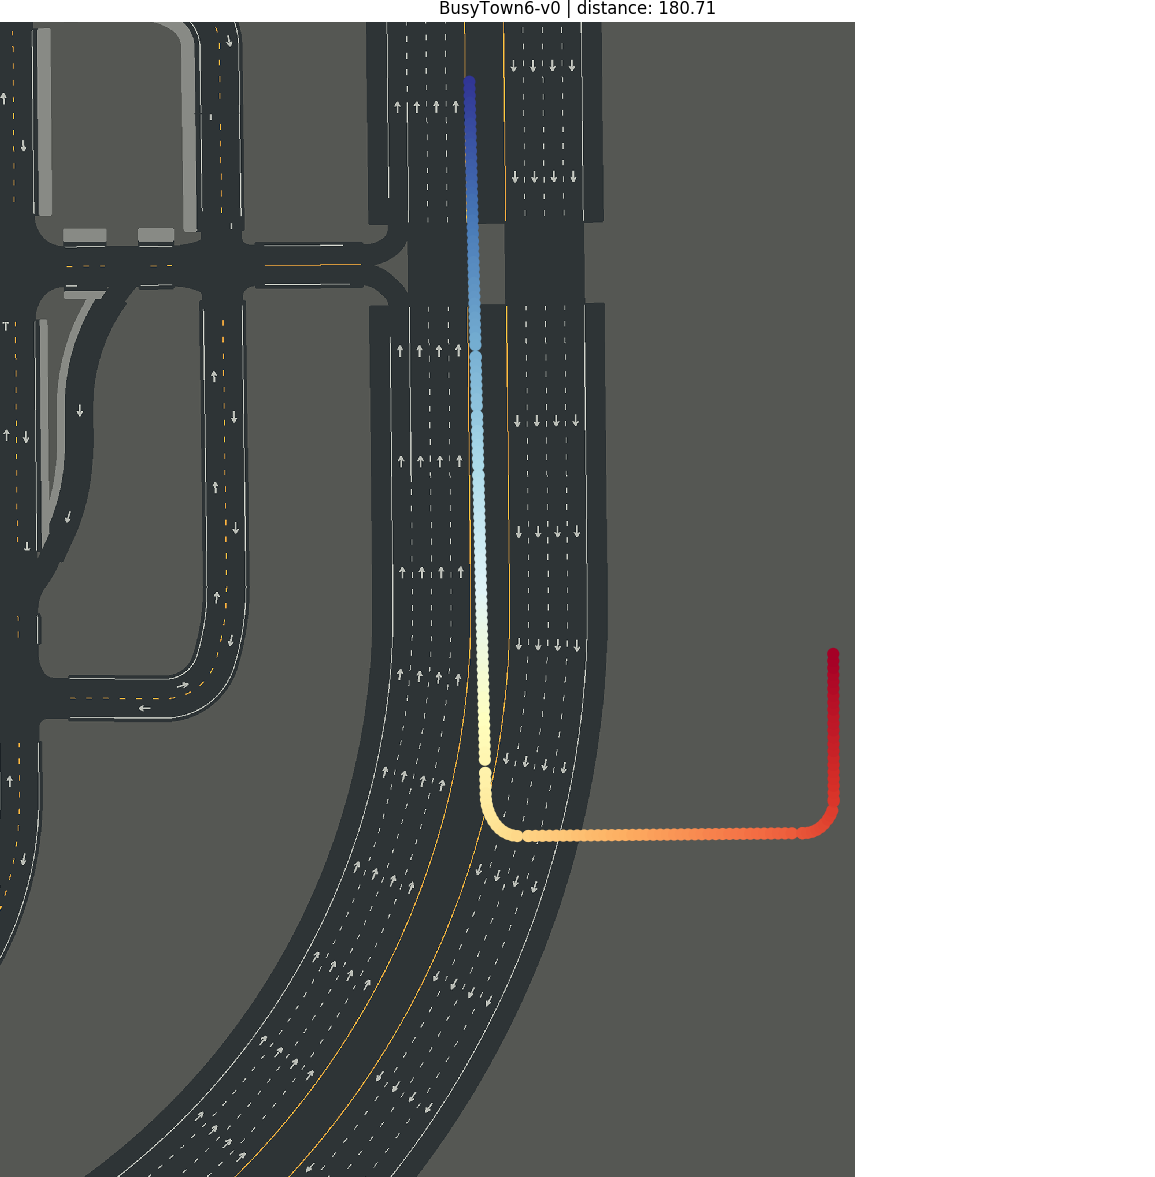
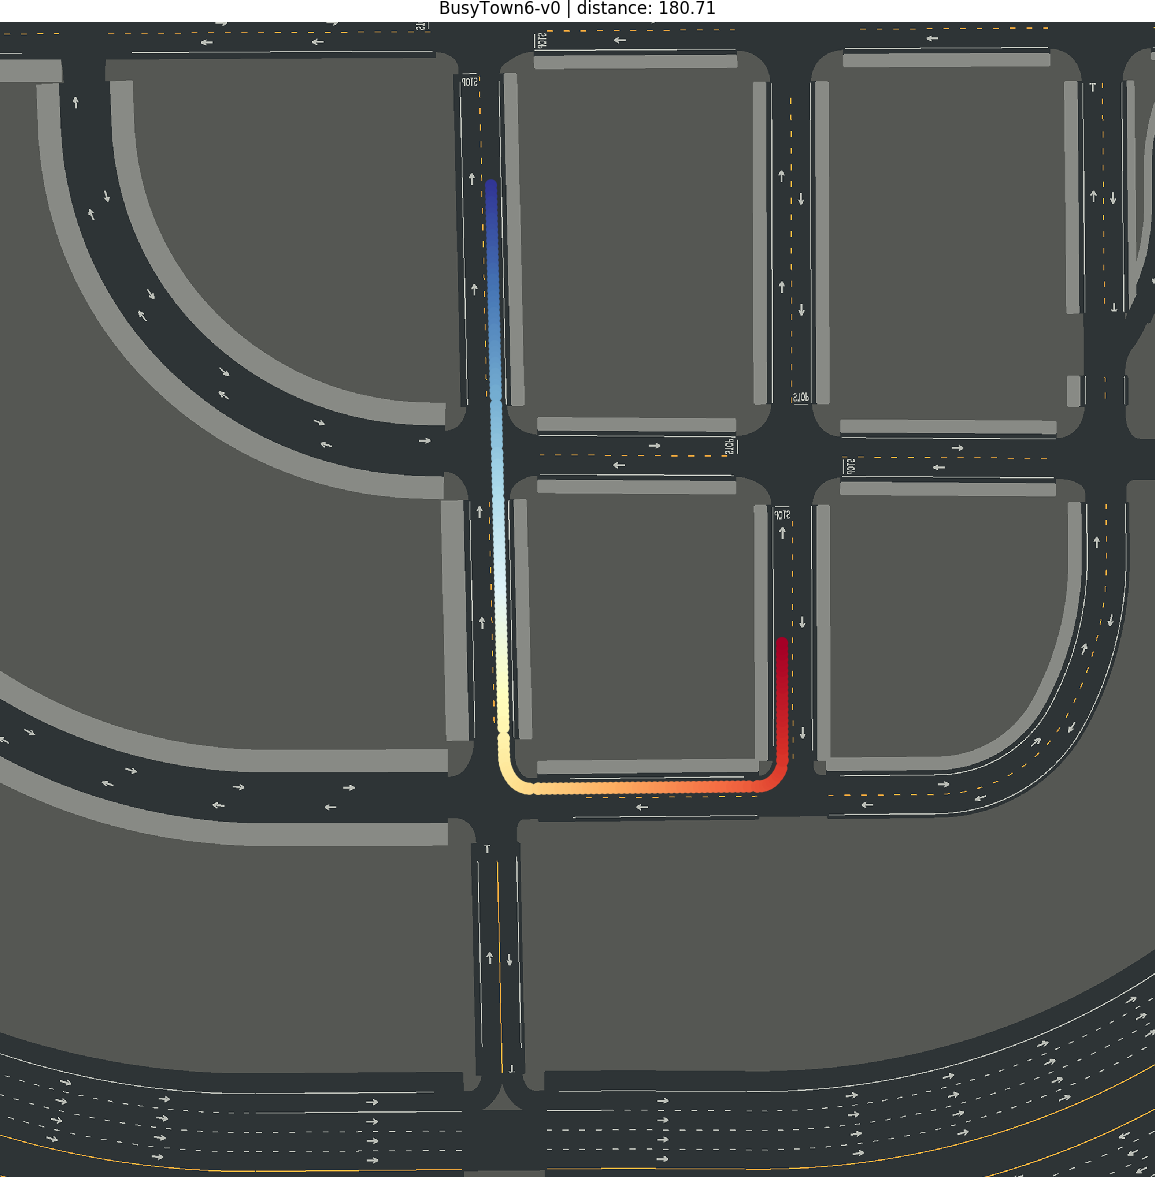
updated CARNOVEL assets

diff --git a/carsuite/benchmarks/carnovel/benchmark.py b/carsuite/benchmarks/carnovel/benchmark.py
@@ -114,7 +114,6 @@ class CARNOVEL(Benchmark):
     def world_to_pixel(
         location: np.ndarray,
         town: str,
-        scale: float = 12.0,
     ) -> np.ndarray:
       """Converts CARLA world coordinates to pixel coordinates."""
       assert town in [
@@ -130,6 +129,13 @@ class CARNOVEL(Benchmark):
           "Town03": (-207.43186950683594, -259.27125549316406),
           "Town04": (-565.26904296875, -446.1461181640625),
           "Town05": (-326.0448913574219, -257.8750915527344)
+      }[town]
+      scale = {
+          "Town01": 12.0,
+          "Town02": 12.0,
+          "Town03": 12.0,
+          "Town04": 9.6,
+          "Town05": 12.0,
       }[town]
       return (location - offset) * scale
 

diff --git a/carsuite/baselines/torch/dim/train.py b/carsuite/baselines/torch/dim/train.py
@@ -17,16 +17,16 @@
 import os
 from typing import Mapping
 
-import torch
-import torch.distributions as D
-import torch.nn as nn
-import torch.nn.functional as F
-import torch.optim as optim
 import tqdm
 from absl import app
 from absl import flags
 from absl import logging
 
+import torch
+import torch.distributions as D
+import torch.nn as nn
+import torch.nn.functional as F
+import torch.optim as optim
 from carsuite.baselines.torch.dim.model import ImitativeModel
 from carsuite.baselines.torch.logging import Checkpointer
 from carsuite.baselines.torch.logging import TensorBoardWriter

diff --git a/carsuite/baselines/torch/cil/train.py b/carsuite/baselines/torch/cil/train.py
@@ -17,15 +17,15 @@
 import os
 from typing import Mapping
 
-import torch
-import torch.nn as nn
-import torch.nn.functional as F
-import torch.optim as optim
 import tqdm
 from absl import app
 from absl import flags
 from absl import logging
 
+import torch
+import torch.nn as nn
+import torch.nn.functional as F
+import torch.optim as optim
 from carsuite.baselines.torch.cil.model import BehaviouralModel
 from carsuite.baselines.torch.logging import Checkpointer
 from carsuite.baselines.torch.logging import TensorBoardWriter

diff --git a/carsuite/baselines/torch/logging.py b/carsuite/baselines/torch/logging.py
@@ -19,12 +19,12 @@ from typing import Optional
 
 import matplotlib.pyplot as plt
 import numpy as np
+
 import torch
 import torch.nn as nn
 import torchvision
-from torch.utils.tensorboard import SummaryWriter
-
 from carsuite.baselines.torch.typing import ArrayLike
+from torch.utils.tensorboard import SummaryWriter
 
 COLORS = [
     "#0071bc",

diff --git a/carsuite/baselines/torch/rip/agent.py b/carsuite/baselines/torch/rip/agent.py
@@ -19,10 +19,10 @@ from typing import Sequence
 
 import numpy as np
 import scipy.interpolate
-import torch
-import torch.optim as optim
 
 import carsuite
+import torch
+import torch.optim as optim
 from carsuite.baselines.base import SetPointAgent
 from carsuite.baselines.torch.dim.model import ImitativeModel
 

diff --git a/carsuite/baselines/torch/dim/model.py b/carsuite/baselines/torch/dim/model.py
@@ -25,7 +25,6 @@ import torch.distributions as D
 import torch.nn as nn
 import torch.nn.functional as F
 import torch.optim as optim
-
 from carsuite.baselines.torch import transforms
 from carsuite.baselines.torch.models import MLP
 from carsuite.baselines.torch.models import MobileNetV2

diff --git a/carsuite/baselines/torch/cil/model.py b/carsuite/baselines/torch/cil/model.py
@@ -21,7 +21,6 @@ from typing import Tuple
 import torch
 import torch.nn as nn
 import torch.nn.functional as F
-
 from carsuite.baselines.torch import transforms
 from carsuite.baselines.torch.models import MLP
 from carsuite.baselines.torch.models import MobileNetV2

diff --git a/carsuite/baselines/torch/cil/agent.py b/carsuite/baselines/torch/cil/agent.py
@@ -18,9 +18,9 @@ from typing import Mapping
 
 import numpy as np
 import scipy.interpolate
-import torch
 
 import carsuite
+import torch
 from carsuite.baselines.base import SetPointAgent
 from carsuite.baselines.torch.cil.model import BehaviouralModel
 

diff --git a/carsuite/baselines/torch/dim/agent.py b/carsuite/baselines/torch/dim/agent.py
@@ -18,9 +18,9 @@ from typing import Mapping
 
 import numpy as np
 import scipy.interpolate
-import torch
 
 import carsuite
+import torch
 from carsuite.baselines.base import SetPointAgent
 from carsuite.baselines.torch.dim.model import ImitativeModel
 

diff --git a/carsuite/baselines/tf/logging.py b/carsuite/baselines/tf/logging.py
@@ -20,9 +20,9 @@ from typing import Optional
 import matplotlib
 import matplotlib.pyplot as plt
 import numpy as np
+
 import sonnet as snt
 import tensorflow as tf
-
 from carsuite.baselines.tf.typing import ArrayLike
 
 COLORS = [

diff --git a/carsuite/baselines/tf/typing.py b/carsuite/baselines/tf/typing.py
@@ -17,8 +17,8 @@
 from typing import Union
 
 import numpy as np
-import tensorflow as tf
 
+import tensorflow as tf
 from carsuite.core.typing import Scalar
 
 ArrayLike = Union[Scalar, np.ndarray, tf.Tensor]

diff --git a/carsuite/baselines/torch/typing.py b/carsuite/baselines/torch/typing.py
@@ -17,8 +17,8 @@
 from typing import Union
 
 import numpy as np
-import torch
 
+import torch
 from carsuite.core.typing import Scalar
 
 ArrayLike = Union[Scalar, np.ndarray, torch.Tensor]
